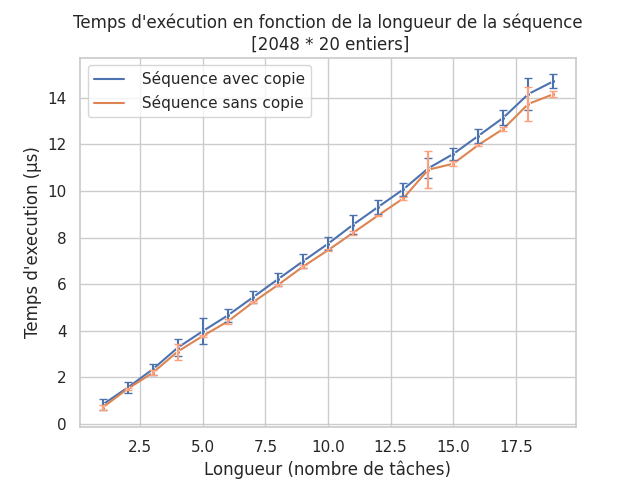
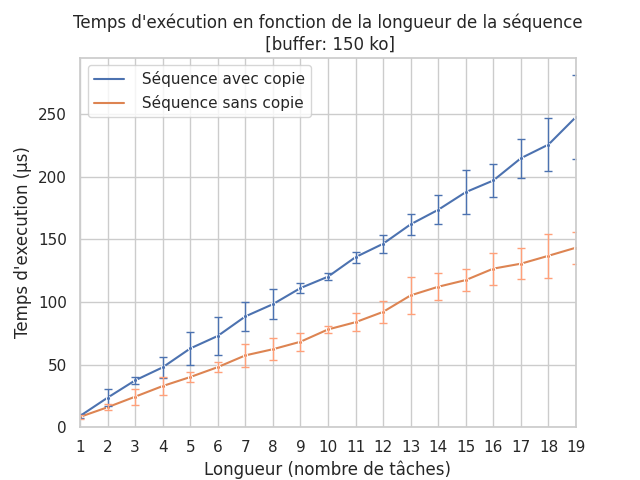
nouveaux graphs.

diff --git a/write_data.cpp b/write_data.cpp
@@ -2,11 +2,14 @@
 #include <fstream>
 #include <chrono>
 #include <cmath>
+#define REGIME_TRANSITOIRE 100 //Execs avant début des mesures
+#define REGIME_PERMANENT 1000 // Les mesures sont la moyenne de REGIME_PERMANENT executions
+#define RESOLUTION 20 // Nombre de points par graphe
 using namespace std::chrono;
 
 void write_all() {
-	write_copy_copyless_size(2048 * 20, 20, "./data/csv/copy_copyless_size.csv");
-	write_copy_copyless_length(20, 2048, "./data/csv/copy_copyless_length.csv");
+	write_copy_copyless_size(2048 * 50, 20, "./data/csv/copy_copyless_size.csv");
+	write_copy_copyless_length(20, 2048 * 75, "./data/csv/copy_copyless_length.csv");
 	write_hybrid(20, 10, "./data/csv/hybrid.csv");
 }
 
@@ -15,7 +18,7 @@ void write_copy_copyless_size(int max_size, int seq_length, std::string path) {
 	output_file.open(path);
 	output_file << "Taille, Séquence avec copie, Séquence sans copie, Ecart-type copie, Ecart-type sans copie" << endl;
 
-	for(int i=1; i < max_size; i+=max_size/20) {
+	for(int i=2048; i < max_size; i+=max_size/RESOLUTION) {
 		int *in = (int*)malloc(sizeof(int) * i);
 
 		for(int k = 0; k < i ; k++){
@@ -28,18 +31,18 @@ void write_copy_copyless_size(int max_size, int seq_length, std::string path) {
 			seq_copyless.add_task(i * sizeof(int)                 , increment_io);
 		}
 		float total_copy = 0, total_copyless = 0;
-		float copy_times[10], copy_lesstimes[10];
-		seq_copy.set_input(in, sizeof(int) * i);
-		seq_copyless.set_input(in, sizeof(int) * i);
-		seq_copy.exec();
-		seq_copyless.exec();
-		// Moyenne sur 10 execs
-		for(int y=0; y < 10; y++){
+		float copy_times[REGIME_PERMANENT], copy_lesstimes[REGIME_PERMANENT];
+		for(int y=0; y < REGIME_TRANSITOIRE; y++) {
 			seq_copy.set_input(in, sizeof(int) * i);
 			seq_copyless.set_input(in, sizeof(int) * i);
 			seq_copy.exec();
 			seq_copyless.exec();
-
+		}
+		for(int y=0; y < REGIME_PERMANENT; y++){
+			seq_copy.set_input(in, sizeof(int) * i);
+			seq_copyless.set_input(in, sizeof(int) * i);
+			seq_copy.exec();
+			seq_copyless.exec();
 			total_copy += duration_cast<nanoseconds>(seq_copy.timestamps.back() - seq_copy.timestamps.front()).count() / 1000.f;
 			total_copyless += duration_cast<nanoseconds>(seq_copyless.timestamps.back() - seq_copyless.timestamps.front()).count() / 1000.f;
 			copy_times[y] = duration_cast<nanoseconds>(seq_copy.timestamps.back() - seq_copy.timestamps.front()).count() / 1000.f;
@@ -47,18 +50,16 @@ void write_copy_copyless_size(int max_size, int seq_length, std::string path) {
 		}
 
 		float variance_copy = 0, variance_copyless = 0;
-		for(int j=0; j < 10; j++) {
-			cout << copy_times[j] << endl;
-			variance_copy += pow((copy_times[j] - total_copy/10), 2);
-			variance_copyless += pow((copy_lesstimes[j] - total_copyless/10), 2);
+		for(int j=0; j < REGIME_PERMANENT; j++) {
+			variance_copy += pow((copy_times[j] - total_copy/REGIME_PERMANENT), 2);
+			variance_copyless += pow((copy_lesstimes[j] - total_copyless/REGIME_PERMANENT), 2);
 		}
-		cout << endl;
 
-		output_file << i << ",";
-		output_file << total_copy/10 << ",";
-		output_file << total_copyless/10 << ",";
-		output_file << sqrt(variance_copy/10) << ",";
-		output_file << sqrt(variance_copyless/10) << endl;
+		output_file << i/1000 << ","; //Ko
+		output_file << total_copy/REGIME_PERMANENT << ",";
+		output_file << total_copyless/REGIME_PERMANENT << ",";
+		output_file << sqrt(variance_copy/REGIME_PERMANENT) << ",";
+		output_file << sqrt(variance_copyless/REGIME_PERMANENT) << endl;
 	}
 	
 	output_file.close();
@@ -74,7 +75,7 @@ void write_copy_copyless_length(int max_seq_length, int size, std::string path) 
 		in[i] = i; 
 	}
 
-	for(int i=1; i < max_seq_length; i+=max_seq_length/20) {
+	for(int i=1; i < max_seq_length; i+=max_seq_length/RESOLUTION) {
 		Sequence seq_copy;
 		Sequence seq_copyless;
 		for(int j=0; j < i; j++) {
@@ -82,9 +83,14 @@ void write_copy_copyless_length(int max_seq_length, int size, std::string path) 
 			seq_copyless.add_task(size * sizeof(int)                 , increment_io);
 		}
 		float total_copy = 0, total_copyless = 0;
-		float copy_times[10], copy_lesstimes[10];
-		// Moyenne sur 10 execs
-		for(int j=0; j < 10; j++) {
+		float copy_times[REGIME_PERMANENT], copy_lesstimes[REGIME_PERMANENT];
+		for(int j=0; j < REGIME_TRANSITOIRE; j++) {
+			seq_copy.set_input(in, sizeof(int) * size);
+			seq_copyless.set_input(in, sizeof(int) * size);
+			seq_copy.exec();
+			seq_copyless.exec();
+		}
+		for(int j=0; j < REGIME_PERMANENT; j++) {
 			seq_copy.set_input(in, sizeof(int) * size);
 			seq_copyless.set_input(in, sizeof(int) * size);
 			seq_copy.exec();
@@ -97,15 +103,15 @@ void write_copy_copyless_length(int max_seq_length, int size, std::string path) 
 		}
 
 		float variance_copy = 0, variance_copyless = 0;
-		for(int j=0; j < 10; j++) {
-			variance_copy += pow((copy_times[j] - total_copy/10), 2);
-			variance_copyless += pow((copy_lesstimes[j] - total_copyless/10), 2);
+		for(int j=0; j < REGIME_PERMANENT; j++) {
+			variance_copy += pow((copy_times[j] - total_copy/REGIME_PERMANENT), 2);
+			variance_copyless += pow((copy_lesstimes[j] - total_copyless/REGIME_PERMANENT), 2);
 		}
 		output_file << i << ",";
-		output_file << total_copy/10 << ",";
-		output_file << total_copyless/10 << ",";
-		output_file << sqrt(variance_copy/10) << ",";
-		output_file << sqrt(variance_copyless/10) << endl;
+		output_file << total_copy/REGIME_PERMANENT << ",";
+		output_file << total_copyless/REGIME_PERMANENT << ",";
+		output_file << sqrt(variance_copy/REGIME_PERMANENT) << ",";
+		output_file << sqrt(variance_copyless/REGIME_PERMANENT) << endl;
 	}
 	output_file.close();
 }
@@ -113,8 +119,8 @@ void write_copy_copyless_length(int max_seq_length, int size, std::string path) 
 void write_hybrid(int regular_length, int io_length, std::string path) {
 	std::ofstream output_file;
 	output_file.open(path);
-	output_file << "Tâche, Séquence homogène, Séquence hybride" << endl;
-	size_t data_size = 2048 * 4;
+	output_file << "Tâche, Séquence homogène, Séquence hybride, Ecart-type homogène, Ecart-type hybride" << endl;
+	size_t data_size = 2048 * 20;
 	int *in = (int*)malloc(sizeof(int) * data_size);
 
 	for(size_t i = 0; i < data_size ; i++){
@@ -138,28 +144,39 @@ void write_hybrid(int regular_length, int io_length, std::string path) {
 		seq_hybrid.add_task(data_size * sizeof(int), data_size * sizeof(int), increment);
 	}
 
-	float total_homog[regular_length + io_length + 1], total_hybrid[regular_length + io_length];
-	for(int i=1; i < regular_length + io_length + 1; i++) {
-		total_homog[i] = 0;
-		total_hybrid[i] = 0;
-	}
-	// Moyenne pour 100 execs
-	for(int i=0; i < 100; i++) {
+	float total_homog[regular_length + io_length + 1] = {}, total_hybrid[regular_length + io_length] = {};
+	float copy_times[regular_length + io_length + 1][REGIME_PERMANENT] = {}, copy_lesstimes[regular_length + io_length + 1][REGIME_PERMANENT] = {};
+	float variance_copy[regular_length + io_length + 1] = {}, variance_copyless[regular_length + io_length + 1] = {};
+	for(int i=0; i < REGIME_TRANSITOIRE; i++) {
 		seq_hybrid.set_input(in, sizeof(int) * data_size);
 		seq_homog.set_input(in, sizeof(int) * data_size);
 		seq_homog.exec();
 		seq_hybrid.exec();
-		for(size_t i=1; i < seq_homog.timestamps.size(); i++) {
-			total_homog[i] += duration_cast<nanoseconds>(seq_homog.timestamps[i] - seq_homog.timestamps[i-1]).count() / 1000.f;
-			total_hybrid[i] += duration_cast<nanoseconds>(seq_hybrid.timestamps[i] - seq_hybrid.timestamps[i-1]).count() / 1000.f;
+	}
+	for(int i=0; i < REGIME_PERMANENT; i++) {
+		seq_hybrid.set_input(in, sizeof(int) * data_size);
+		seq_homog.set_input(in, sizeof(int) * data_size);
+		seq_homog.exec();
+		seq_hybrid.exec();
+		for(size_t j=1; j < seq_homog.timestamps.size(); j++) {
+			total_homog[j] += duration_cast<nanoseconds>(seq_homog.timestamps[j] - seq_homog.timestamps[j-1]).count() / 1000.f;
+			total_hybrid[j] += duration_cast<nanoseconds>(seq_hybrid.timestamps[j] - seq_hybrid.timestamps[j-1]).count() / 1000.f;
+			copy_times[j][i] = duration_cast<nanoseconds>(seq_homog.timestamps[j] - seq_homog.timestamps[j-1]).count() / 1000.f;
+			copy_lesstimes[j][i] = duration_cast<nanoseconds>(seq_hybrid.timestamps[j] - seq_hybrid.timestamps[j-1]).count() / 1000.f;
+		}
+	}
+	for(int j=0; j < regular_length + io_length + 1; j++){
+		for(int i=0; i < REGIME_PERMANENT; i++) {
+			variance_copy[j] += pow((copy_times[j][i] - total_homog[j]/REGIME_PERMANENT), 2);
+			variance_copyless[j] += pow((copy_lesstimes[j][i] - total_hybrid[j]/REGIME_PERMANENT), 2);
 		}
 	}
 	for(size_t i=1; i < seq_homog.timestamps.size(); i++){
-		auto time_taken_homog = seq_homog.timestamps[i] - seq_homog.timestamps[i-1];
-		auto time_taken_hybrid = seq_hybrid.timestamps[i] - seq_hybrid.timestamps[i-1];
 		output_file << i << ",";
-		output_file << total_homog[i]/100 << ",";
-		output_file << total_hybrid[i]/100 << endl;
+		output_file << total_homog[i]/REGIME_PERMANENT << ",";
+		output_file << total_hybrid[i]/REGIME_PERMANENT << ",";
+		output_file << sqrt(variance_copy[i]/REGIME_PERMANENT) << ",";
+		output_file << sqrt(variance_copyless[i]/REGIME_PERMANENT) << endl;
 	}
 	free(in);
 	output_file.close();

diff --git a/draw_plots.py b/draw_plots.py
@@ -6,44 +6,92 @@ sns.set_theme(style="whitegrid")
 hybrid_data = pd.read_csv("./data/csv/hybrid.csv")
 copy_copyless_length = pd.read_csv("./data/csv/copy_copyless_length.csv")
 copy_copyless_size = pd.read_csv("./data/csv/copy_copyless_size.csv")
+copy_copyless_affect_size_full = pd.read_csv("./data/csv/copy_copy_less_affect.csv")
 
 hybrid_data = hybrid_data.set_index("Tâche")
 copy_copyless_length = copy_copyless_length.set_index('Longueur')
 copy_copyless_size = copy_copyless_size.set_index('Taille')
+copy_copyless_affect_size_full = copy_copyless_affect_size_full.set_index('Taille')
 ### HYBRIDE ###
-graph = sns.lineplot(data=hybrid_data, dashes=False, marker=".", errorbar="sd")
+graph = sns.lineplot(data=hybrid_data[[" Séquence homogène", " Séquence hybride"]], dashes=False, marker=".")
 plt.ylabel("Temps d'execution (µs)")
 plt.xlabel("N° tâche")
-plt.ylim(0)
-plt.title("Temps d'exécution en fonction du N° de la tâche\n [2048 * 4 entiers -01]")
-#sns.lineplot(x=hybrid_data["Tâche"], y=hybrid_data[" Séquence homogène"], data=hybrid_data)
-#graph.get_figure().savefig("./data/graph/hybrid_homog.png")
-plt.close()
-### COPY-COPYLESS SIZE ###
-graph = sns.lineplot(data=copy_copyless_size[[" Séquence avec copie", " Séquence sans copie"]], dashes=False, marker=".")
-plt.errorbar(x=copy_copyless_size.index, y=copy_copyless_size[" Séquence avec copie"], yerr=copy_copyless_size[" Ecart-type copie"], fmt='none', capsize=3, capthick=1, )
-plt.errorbar(x=copy_copyless_size.index, y=copy_copyless_size[" Séquence sans copie"], yerr=copy_copyless_size[" Ecart-type sans copie"], fmt='none', capsize=3, capthick=1, color="#FFA07A")
-plt.title("Temps d'exécution en fonction de la taille des données\n [20 tâches]")
-plt.ylabel("Temps d'execution (µs)")
-plt.xlabel("Taille (entiers 4o)")
-graph.get_figure().savefig("./data/graph/copy_copyless_size.png")
+plt.xlim(1, 30)
+plt.xticks(hybrid_data.index)
+plt.errorbar(x=hybrid_data.index, y=hybrid_data[" Séquence homogène"], linewidth=1, yerr=hybrid_data[" Ecart-type homogène"], fmt='none', capsize=3, capthick=1, )
+plt.errorbar(x=hybrid_data.index, y=hybrid_data[" Séquence hybride"], linewidth=1, yerr=hybrid_data[" Ecart-type hybride"], fmt='none', capsize=3, capthick=1, color="#FFA07A")
+plt.title("Temps d'exécution en fonction du N° de la tâche\n [buffer: 32 ko]")
+plt.tick_params(axis='x', which='major', labelsize=8)
+graph.get_figure().savefig("./data/graph/hybrid_homog.png")
 plt.close()
 ### COPY-COPYLESS LENGTH ###
 graph = sns.lineplot(data=copy_copyless_length[[" Séquence avec copie", " Séquence sans copie"]], dashes=False, marker=".")
-plt.errorbar(x=copy_copyless_length.index, y=copy_copyless_length[" Séquence avec copie"], yerr=copy_copyless_length[" Ecart-type copie"], fmt='none', capsize=3, capthick=1, )
-plt.errorbar(x=copy_copyless_length.index, y=copy_copyless_length[" Séquence sans copie"], yerr=copy_copyless_length[" Ecart-type sans copie"], fmt='none', capsize=3, capthick=1, color="#FFA07A")
-plt.title("Temps d'exécution en fonction de la longueur de la séquence\n [2048 * 20 entiers]")
+plt.errorbar(x=copy_copyless_length.index, y=copy_copyless_length[" Séquence avec copie"], linewidth=1, yerr=copy_copyless_length[" Ecart-type copie"], fmt='none', capsize=3, capthick=1, )
+plt.errorbar(x=copy_copyless_length.index, y=copy_copyless_length[" Séquence sans copie"], linewidth=1, yerr=copy_copyless_length[" Ecart-type sans copie"], fmt='none', capsize=3, capthick=1, color="#FFA07A")
+plt.title("Temps d'exécution en fonction de la longueur de la séquence\n [buffer: 150 ko]")
 plt.ylabel("Temps d'execution (µs)")
 plt.xlabel("Longueur (nombre de tâches)")
+plt.xticks(copy_copyless_length.index)
+plt.ylim(0)
+plt.xlim(1, 19)
 graph.get_figure().savefig("./data/graph/copy_copyless_length.png")
-# Create a dataframe with some data
-#df = pd.DataFrame({
-#    "x": [1, 2, 3, 4, 5],
-#    "y": [2.1, 4.2, 6.3, 8.4, 10.5],
-#    "std": [0.3, 0.4, 0.5, 0.6, 0.7]
-#})
-#
-## Plot the lineplot with error bars
-#sns.lineplot(x="x", y="y", data=df)
-#plt.errorbar(x=df["x"], y=df["y"], yerr=df["std"], fmt='none', capsize=3, capthick=1)
-#plt.show()
+plt.close()
+### COPY-COPY-LESS-AFFECT ###
+copy_copyless_affect_size = copy_copyless_affect_size_full.loc[(copy_copyless_affect_size_full.index >= 32) & (copy_copyless_affect_size_full.index <= 83)]
+graph = sns.lineplot(data=copy_copyless_affect_size[[" Séquence avec copie", " Séquence sans copie", " Aff3ct"]], dashes=False, marker=".")
+plt.errorbar(x=copy_copyless_affect_size.index, y=copy_copyless_affect_size[" Séquence avec copie"], linewidth=1, yerr=copy_copyless_affect_size[" Ecart-type copie"], fmt='none', capsize=3, capthick=1)
+plt.errorbar(x=copy_copyless_affect_size.index, y=copy_copyless_affect_size[" Aff3ct"], linewidth=1, yerr=copy_copyless_affect_size[" Ecart-type Aff3ct"], fmt='none', capsize=3, capthick=1, color="#4CAF50")
+plt.errorbar(x=copy_copyless_affect_size.index, y=copy_copyless_affect_size[" Séquence sans copie"], linewidth=1, yerr=copy_copyless_affect_size[" Ecart-type sans copie"], fmt='none', capsize=3, capthick=1, color="#FFA07A")
+
+plt.title("Temps d'exécution en fonction de la taille des données\n [20 tâches]")
+plt.ylabel("Temps d'execution (µs)")
+plt.xlabel("Taille (ko)")
+plt.xlim(32)
+plt.xticks(copy_copyless_affect_size.index)
+graph.get_figure().savefig("./data/graph/copy_copyless_affect_size.png")
+plt.close()
+### COPY-COPY-LESS-AFFECT FULL ###
+graph = sns.lineplot(data=copy_copyless_affect_size_full[[" Séquence avec copie", " Séquence sans copie", " Aff3ct"]], dashes=False, marker=".")
+plt.errorbar(x=copy_copyless_affect_size_full.index, y=copy_copyless_affect_size_full[" Séquence avec copie"], linewidth=1, yerr=copy_copyless_affect_size_full[" Ecart-type copie"], fmt='none', capsize=3, capthick=1)
+plt.errorbar(x=copy_copyless_affect_size_full.index, y=copy_copyless_affect_size_full[" Aff3ct"], linewidth=1, yerr=copy_copyless_affect_size_full[" Ecart-type Aff3ct"], fmt='none', capsize=3, capthick=1, color="#4CAF50")
+plt.errorbar(x=copy_copyless_affect_size_full.index, y=copy_copyless_affect_size_full[" Séquence sans copie"], linewidth=1, yerr=copy_copyless_affect_size_full[" Ecart-type sans copie"], fmt='none', capsize=3, capthick=1, color="#FFA07A")
+
+plt.title("Temps d'exécution en fonction de la taille des données\n [20 tâches]")
+plt.ylabel("Temps d'execution (µs)")
+plt.xlabel("Taille (ko)")
+plt.xlim(2)
+plt.ylim(0)
+plt.xticks(copy_copyless_affect_size_full.index)
+graph.get_figure().savefig("./data/graph/copy_copyless_affect_size_full.png")
+plt.close()
+
+### COPY-COPY-LESS-AFFECT GAIN ###
+copy_copyless_affect_size = copy_copyless_affect_size_full.loc[(copy_copyless_affect_size_full.index >= 32) & (copy_copyless_affect_size_full.index <= 99)]
+gain_copy_copy_less = (copy_copyless_affect_size[" Séquence sans copie"] - copy_copyless_affect_size[" Séquence avec copie"]) / copy_copyless_affect_size[" Séquence avec copie"] * 100 * (-1) 
+gain_copy_affect = (copy_copyless_affect_size[" Séquence avec copie"] - copy_copyless_affect_size[" Aff3ct"]) / copy_copyless_affect_size[" Aff3ct"] * 100 * (-1)
+gain_copy_less_affect = (copy_copyless_affect_size[" Séquence sans copie"] - copy_copyless_affect_size[" Aff3ct"]) / copy_copyless_affect_size[" Aff3ct"] * 100 * (-1)
+
+fig, ax1 = plt.subplots(figsize=(12,6))
+ax2 = ax1.twinx()
+
+ax1.set_ylabel("Temps d'execution (µs)")
+ax1.set_xlabel("Taille (ko)")
+ax1.set_ylim(0, 200)
+ax1.set_title("Temps d'exécution en fonction de la taille des données\n [20 tâches]")
+
+ax2.set_ylabel("Gain (%)")
+ax2.set_ylim(0, 100)
+ax2.grid(False)
+# plot the second graph with "copy-copyless-affect" data
+sns.lineplot(data=copy_copyless_affect_size[[" Séquence avec copie", " Séquence sans copie", " Aff3ct"]], dashes=False, marker=".", ax=ax1)
+ax1.errorbar(x=copy_copyless_affect_size.index, y=copy_copyless_affect_size[" Séquence avec copie"], linewidth=1, yerr=copy_copyless_affect_size[" Ecart-type copie"], fmt='none', capsize=3, capthick=1)
+ax1.errorbar(x=copy_copyless_affect_size.index, y=copy_copyless_affect_size[" Aff3ct"], linewidth=1, yerr=copy_copyless_affect_size[" Ecart-type Aff3ct"], fmt='none', capsize=3, capthick=1, color="#4CAF50")
+ax1.errorbar(x=copy_copyless_affect_size.index, y=copy_copyless_affect_size[" Séquence sans copie"], linewidth=1, yerr=copy_copyless_affect_size[" Ecart-type sans copie"], fmt='none', capsize=3, capthick=1, color="#FFA07A")
+ax2.bar(copy_copyless_affect_size.index+0.5, gain_copy_copy_less, width=1, label="Avec Copie | Sans Copie", color="grey")
+ax2.bar(copy_copyless_affect_size.index+1.5, gain_copy_affect, width=1, label="Avec Copie | Aff3ct", color="brown")
+ax2.bar(copy_copyless_affect_size.index+2.5, gain_copy_less_affect, width=1,  label="Sans Copie | Aff3ct", color="olivedrab")
+ax2.legend()
+plt.xticks(copy_copyless_affect_size.index)
+plt.xlim(32, 88)
+plt.savefig("./data/graph/copy_copyless_affect_size_gain.png")
+plt.close()

diff --git a/README.md b/README.md
@@ -1,4 +1,4 @@
 # mini-seq
-g++ -O3 -DBENCH -Wall -o mini_seq mini_seq.cpp
+g++ -O3 -DBENCH -Wall -std=c++11 -march=native -o mini_seq mini_seq.cpp
 # write_data
-g++ -O1 -DBENCH -Wall -o write_data write_data.cpp
+g++ -O3 -DBENCH -Wall -std=c++11 -march=native -o write_data write_data.cpp
